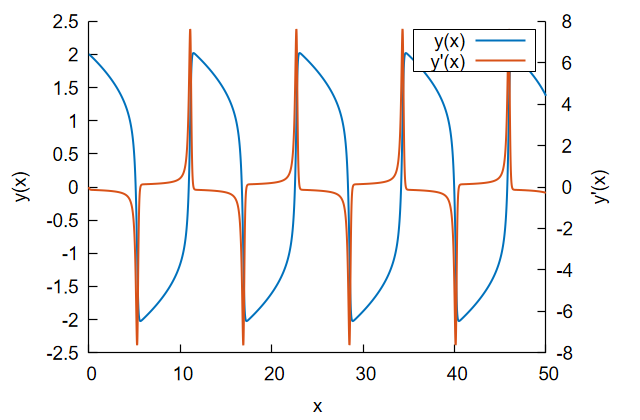
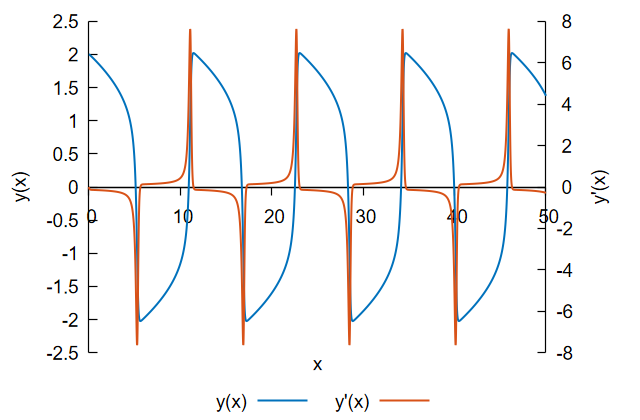
Enhance example plots and documentation for single-step integrators
- Update plot titles and legend settings in rk853_example.f90 and rosenbrock_example.f90
- Add README.md for single-step integrators with detailed descriptions and examples
- Update example images for better visualization

diff --git a/src/singlestep/README.md b/src/singlestep/README.md
@@ -1,0 +1,106 @@
+## Single-Step Integrators
+
+Single-step integrators advance the solution from one point to the next using only the current state. Each integrator derives from the abstract `single_step_integrator` type defined in [diffeq_singlestep.f90](diffeq_singlestep.f90), which provides the adaptive step-size driver, dense output, and the common `solve` and `get_solution` interface.
+
+The integrators are grouped below by source folder.
+
+| Integrator | Type | Order | Embedded Estimate | Source |
+|---|---|---|---|---|
+| `runge_kutta_23` | Explicit | 3 | 2 | [explicit/diffeq_rk23.f90](explicit/diffeq_rk23.f90) |
+| `runge_kutta_45` | Explicit | 5 | 4 | [explicit/diffeq_rk45.f90](explicit/diffeq_rk45.f90) |
+| `tsitouras_54` | Explicit | 5 | 4 | [explicit/diffeq_tsitouras.f90](explicit/diffeq_tsitouras.f90) |
+| `runge_kutta_853` | Explicit | 8 | 5 and 3 | [explicit/diffeq_rk853.f90](explicit/diffeq_rk853.f90) |
+| `rosenbrock` | Linearly implicit | 4 | Yes | [implicit/diffeq_rosenbrock.f90](implicit/diffeq_rosenbrock.f90) |
+| `kennedy_carpenter_4` | Implicit (ESDIRK) | 4 | 3 | [implicit/diffeq_kennedy_carpenter.f90](implicit/diffeq_kennedy_carpenter.f90) |
+| `kennedy_carpenter_5` | Implicit (ESDIRK) | 5 | 4 | [implicit/diffeq_kennedy_carpenter.f90](implicit/diffeq_kennedy_carpenter.f90) |
+
+### Explicit Methods
+
+#### `runge_kutta_23`
+The Bogacki--Shampine RK23 method. A third-order solution is paired with an embedded second-order solution, giving the local error estimate $e_{n+1} = y_{n+1}^{[3]} - y_{n+1}^{[2]}$. The method has four stages with first-same-as-last (FSAL) reuse. Its lower order reduces the cost per step, which makes it useful when high accuracy is not required.
+
+#### `runge_kutta_45`
+The Dormand--Prince RK45 method. A fifth-order solution is paired with an embedded fourth-order solution, and the fifth-order result is used after an accepted step. The local error estimate is $e_{n+1} = y_{n+1}^{[5]} - y_{n+1}^{[4]}$. The method has seven stages and FSAL reuse, so the final stage derivative becomes the first derivative of the next step. It is a general-purpose choice for moderate-to-high accuracy on non-stiff problems.
+
+#### `tsitouras_54`
+The Tsitouras fifth-order Runge--Kutta method with an embedded fourth-order estimator. The seven-stage FSAL tableau is designed for efficient adaptive integration of non-stiff systems.
+
+#### `runge_kutta_853`
+The Fehlberg RK8(5,3) method. It computes an eighth-order solution together with fifth- and third-order embedded solutions. The error estimate is $e_{n+1} = y_{n+1}^{[5]} - y_{n+1}^{[3]}$, while the accepted solution is the eighth-order result. The higher order is useful for smooth, non-stiff problems over long integration intervals.
+
+### Implicit Methods
+
+#### `rosenbrock`
+A fourth-order Rosenbrock method for stiff systems. Rather than solving a nonlinear equation at every stage, it reuses one factored linear system based on the Jacobian $J = \partial f / \partial y$. Without a mass matrix the factored matrix is $A = \frac{1}{\gamma h}I - J$, and a user-supplied mass matrix produces $A = \frac{1}{\gamma h}M - J$. The mass matrix may be constant or state-dependent, in which case it is recomputed as needed. The method can solve index-1 DAEs when the initial conditions satisfy the algebraic constraints. Step sizes are chosen by a Rosenbrock-specific controller rather than the inherited PI controller. The iteration matrix is solved with pivoted LU, with a rank-revealing QR fallback for singular or unreliable systems.
+
+#### `kennedy_carpenter_4` and `kennedy_carpenter_5`
+Kennedy--Carpenter ESDIRK methods for stiff systems. `kennedy_carpenter_4` is the ARK4(3)6L[2]SA method, which is fourth order with a third-order embedded estimate. `kennedy_carpenter_5` is the ARK5(4)8L[2]SA method, which is fifth order with a fourth-order embedded estimate. Both share an implementation that solves each stage with a simplified Newton iteration. A supplied mass matrix is incorporated in each stage system as $M - h\gamma J$.
+
+Every implicit stage shares the diagonal coefficient $\gamma$, so a single factorization serves all stages and Newton iterations within a step. The factorization is retained until the step size changes, and the Jacobian is retained across steps until the Newton iteration converges slowly or fails. A failed iteration first refreshes any stale Jacobian or factorization. If the iteration still fails, the step is rejected and retried with a smaller step size.
+
+The Newton iteration limit and convergence tolerance are adjustable through `set_newton_step_limit` and `set_newton_tolerance`. The applied tolerance never exceeds one percent of the smallest positive integration tolerance. These solvers use the inherited, configurable PI step-size controller. Singular mass matrices require consistent initial conditions and an index-1 system.
+
+### Choosing an Integrator
+
+- **Non-stiff problems:** start with `runge_kutta_45` or `tsitouras_54`. Use `runge_kutta_853` for smooth problems that need high accuracy over long intervals, and `runge_kutta_23` when modest accuracy is acceptable at low cost.
+- **Stiff problems or mass-matrix DAEs:** use `rosenbrock` or one of the Kennedy--Carpenter methods. The explicit methods are not intended for stiff systems or mass-matrix DAEs.
+
+For a fuller comparison, see the [Choosing an Integrator](../../README.md#choosing-an-integrator) section of the main README.
+
+### Examples
+
+The examples below are located in the top-level [examples/](../../examples) folder.
+
+#### Explicit vs. Implicit: Van der Pol Equation
+[rk853_example.f90](../../examples/rk853_example.f90) and [rosenbrock_example.f90](../../examples/rosenbrock_example.f90) solve the same Van der Pol problem ($\mu = 5$, $0 \le x \le 50$, $y_1(0) = 2$, $y_2(0) = 0$). The first uses the explicit `runge_kutta_853` method, and the second uses the implicit `rosenbrock` method. The results can be compared directly, since both should produce the same solution curve. The explicit method is well suited to this non-stiff case, while the Rosenbrock method is designed for problems where explicit methods would need prohibitively small steps.
+
+Explicit method, `runge_kutta_853`:
+```fortran
+type(runge_kutta_853) :: integrator
+type(ode_container) :: mdl
+real(real64), allocatable :: sol(:,:)
+
+mdl%fcn => vanderpol
+call integrator%solve(mdl, [0.0d0, 5.0d1], [2.0d0, 0.0d0])
+sol = integrator%get_solution()
+```
+
+![](../../images/rk853_example.png?raw=true)
+
+Implicit method, `rosenbrock`:
+```fortran
+type(rosenbrock) :: integrator
+type(ode_container) :: mdl
+real(real64) :: mu
+real(real64), allocatable :: sol(:,:)
+
+mu = 5.0d0
+mdl%fcn => vanderpol_args
+call integrator%solve(mdl, [0.0d0, 5.0d1], [2.0d0, 0.0d0], args = mu)
+sol = integrator%get_solution()
+```
+
+![](../../images/rosenbrock_example.png?raw=true)
+
+#### Differential-Algebraic Equations: Constrained Pendulum
+[dae_example.f90](../../examples/dae_example.f90) models a pendulum as a mass-matrix DAE and solves it with `rosenbrock`. The mass matrix is supplied through `mdl%mass_matrix`, and the initial conditions satisfy the algebraic constraint. The model parameters are passed through `args`.
+
+```fortran
+type(rosenbrock) :: integrator
+type(ode_container) :: mdl
+type(cartesian_pendulum_properties) :: args
+
+mdl%fcn => cartesian_pendulum
+mdl%mass_matrix => cartesian_pendulum_mass_matrix
+call mdl%set_is_mass_matrix_dependent(.false.)
+
+call integrator%solve( &
+    mdl, &
+    [0.0d0, 1.0d1], &
+    [length, 0.0d0, 0.0d0, 0.0d0, 0.0d0], &
+    args = args &
+)
+sol = integrator%get_solution()
+```
+
+![](../../images/dae_results.png?raw=true)
